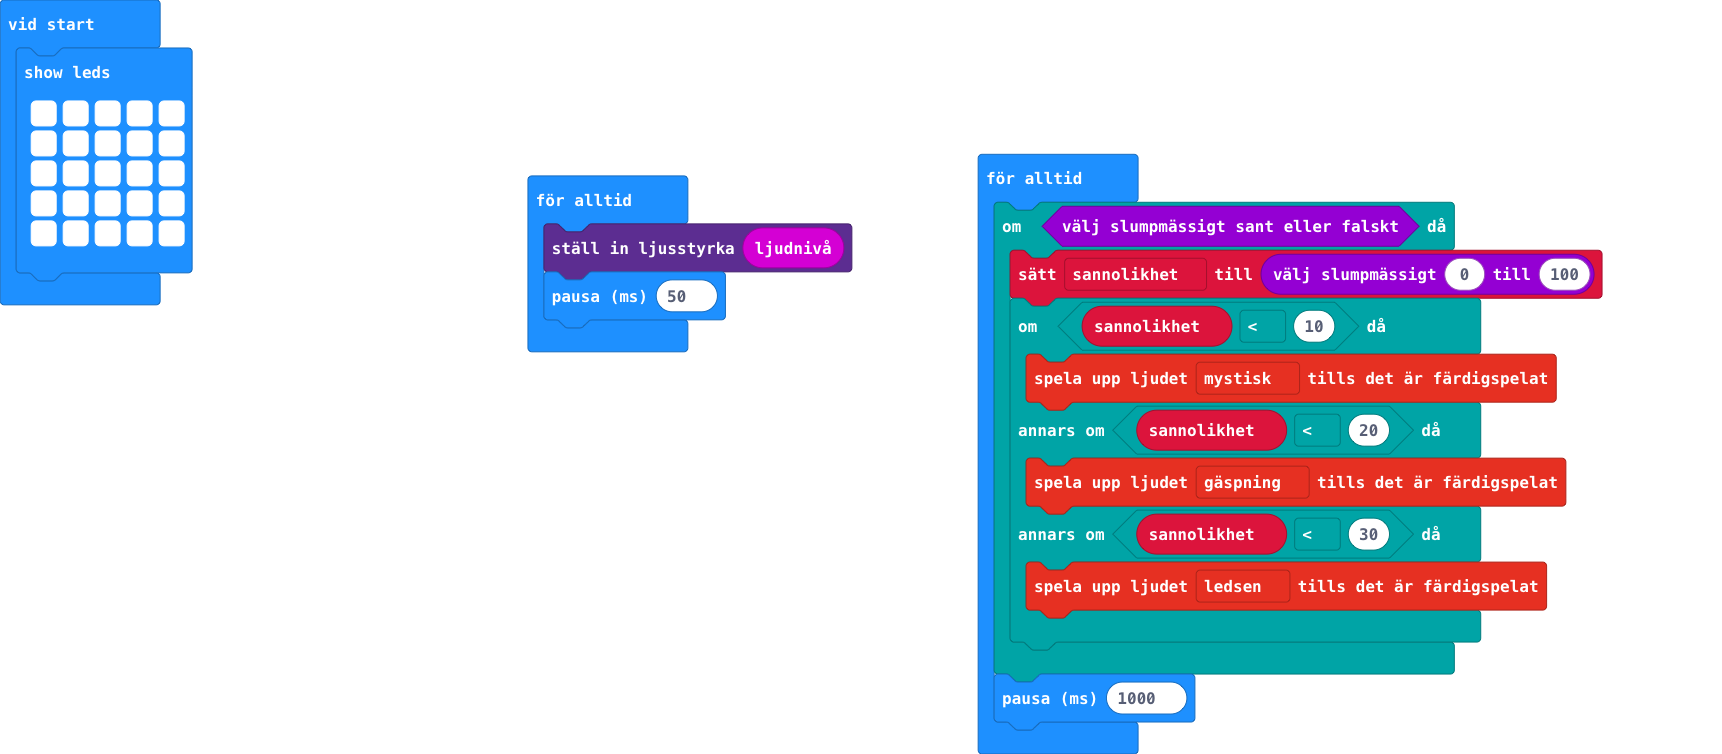
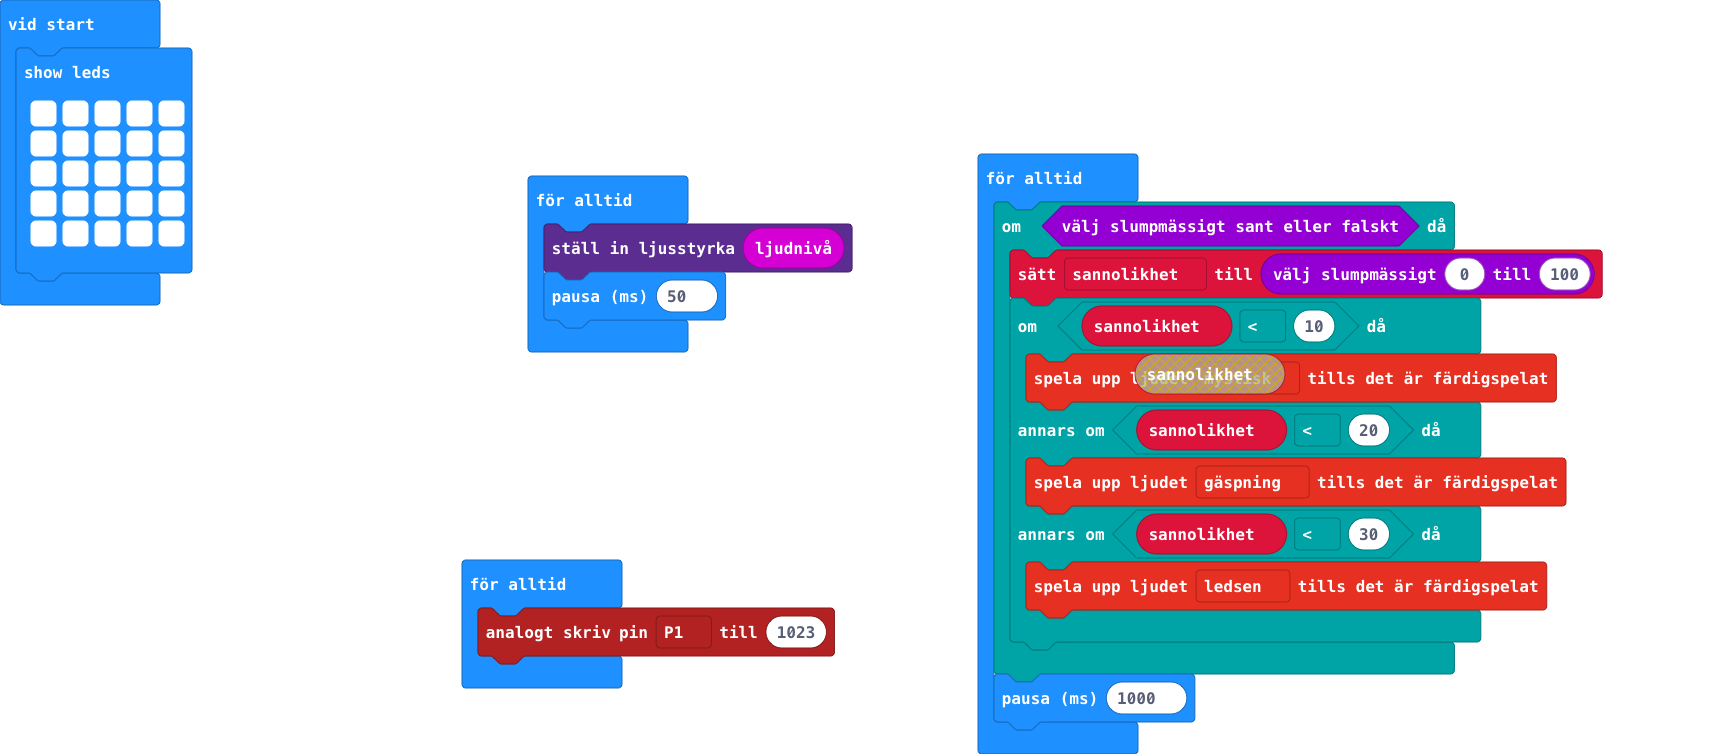
Uppdatera main.blocks, main.ts

diff --git a/main.ts b/main.ts
@@ -23,3 +23,6 @@ basic.forever(function () {
     }
     basic.pause(1000)
 })
+basic.forever(function () {
+    pins.analogWritePin(AnalogPin.P1, 1023)
+})
